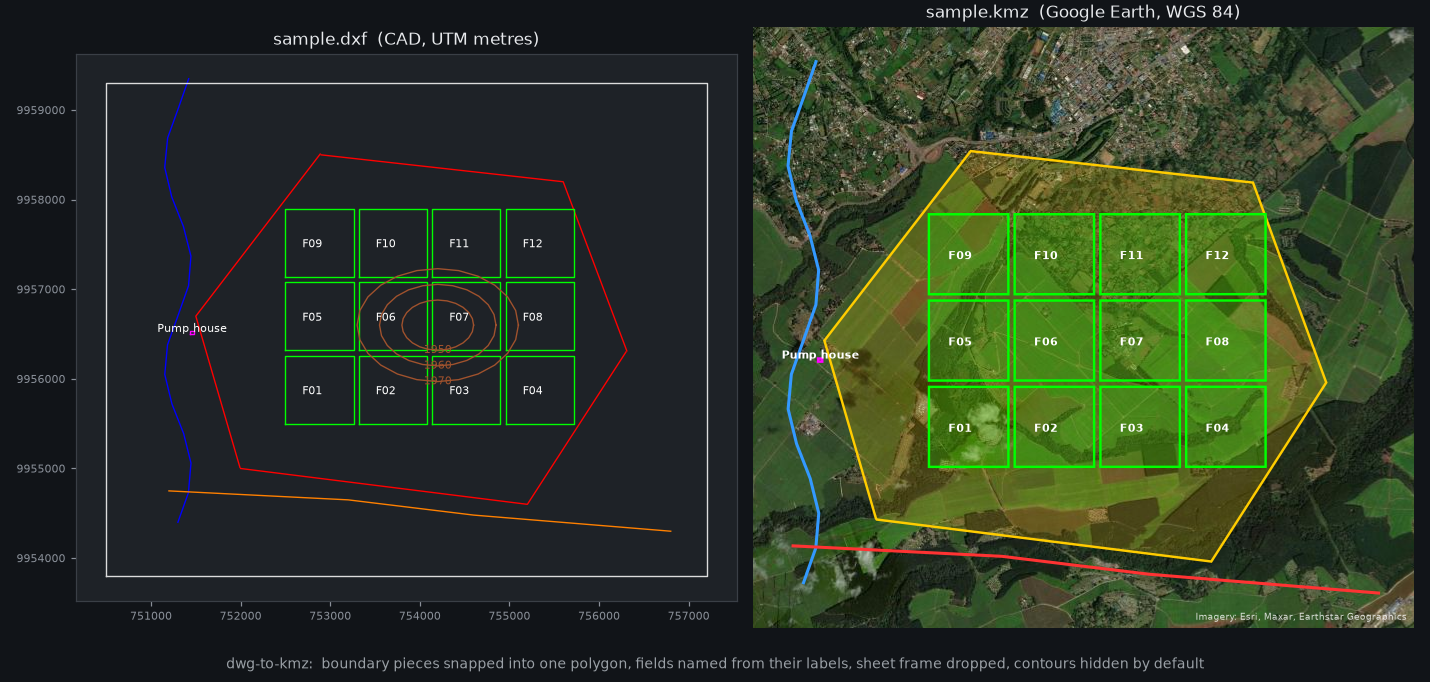
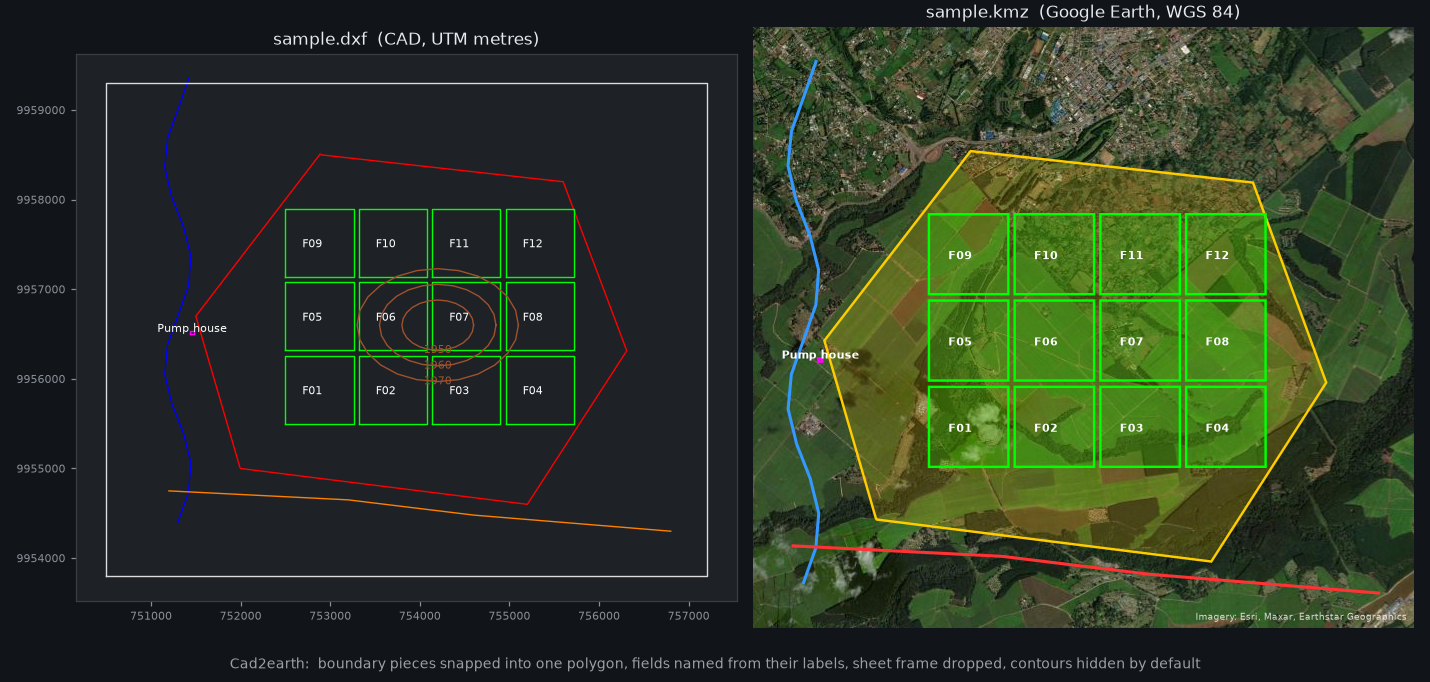
Rename project to Cad2earth
The skill is now called cad2earth (skill names must be lowercase) and
installs to ~/.claude/skills/cad2earth; README, badges, clone commands
and the demo image use the new name.

Changed region(s): [[0.1538, 0.9545, 0.8308, 0.9853]]

diff --git a/examples/render_demo.py b/examples/render_demo.py
@@ -75,7 +75,7 @@ mosaic = Image.new('RGB', ((tx1 - tx0 + 1) * 256, (ty1 - ty0 + 1) * 256))
 for tx in range(tx0, tx1 + 1):
     for ty in range(ty0, ty1 + 1):
         url = 'https://server.arcgisonline.com/ArcGIS/rest/services/World_Imagery/MapServer/tile/%d/%d/%d' % (z, ty, tx)
-        req = urllib.request.Request(url, headers={'User-Agent': 'dwg-to-kmz demo renderer'})
+        req = urllib.request.Request(url, headers={'User-Agent': 'Cad2earth demo renderer'})
         mosaic.paste(Image.open(io.BytesIO(urllib.request.urlopen(req, timeout=30).read())).convert('RGB'),
                      ((tx - tx0) * 256, (ty - ty0) * 256))
 
@@ -103,7 +103,7 @@ a2.set_xlim(mx0, mx1); a2.set_ylim(my0, my1); a2.set_aspect('equal'); a2.axis('o
 a2.set_title('sample.kmz  (Google Earth, WGS 84)', color='#e8eaed', fontsize=11)
 a2.text(0.99, 0.01, 'Imagery: Esri, Maxar, Earthstar Geographics', transform=a2.transAxes, ha='right', va='bottom',
         color='white', fontsize=6, alpha=0.8)
-fig.text(0.5, 0.02, 'dwg-to-kmz:  boundary pieces snapped into one polygon, fields named from their labels, '
+fig.text(0.5, 0.02, 'Cad2earth:  boundary pieces snapped into one polygon, fields named from their labels, '
          'sheet frame dropped, contours hidden by default', ha='center', color='#9aa0a6', fontsize=9)
 plt.tight_layout(rect=(0, 0.04, 1, 1))
 fig.savefig(out, facecolor=fig.get_facecolor())

diff --git a/README.md b/README.md
@@ -1,6 +1,6 @@
-# dwg-to-kmz
+# Cad2earth
 
-[![test](https://github.com/silaselisha/dwg-to-kmz/actions/workflows/test.yml/badge.svg)](https://github.com/silaselisha/dwg-to-kmz/actions/workflows/test.yml)
+[![test](https://github.com/silaselisha/Cad2earth/actions/workflows/test.yml/badge.svg)](https://github.com/silaselisha/Cad2earth/actions/workflows/test.yml)
 [![License: MIT](https://img.shields.io/badge/License-MIT-yellow.svg)](LICENSE)
 [![Claude Code skill](https://img.shields.io/badge/Claude%20Code-skill-d97757)](https://docs.claude.com/en/docs/claude-code/skills)
 
@@ -37,7 +37,7 @@ DWG ──LibreDWG dwg2dxf──▶ DXF ──GDAL + dxf2kmz.py──▶ KML ─
 ## Try it in one minute
 
 ```bash
-git clone https://github.com/silaselisha/dwg-to-kmz.git && cd dwg-to-kmz
+git clone https://github.com/silaselisha/Cad2earth.git && cd Cad2earth
 bash scripts/qgis-python.sh scripts/dxf2kmz.py examples/sample.dxf sample.kmz --epsg 32736 --join-layers '^FARM BOUNDARY$'
 ```
 
@@ -46,7 +46,7 @@ Open `sample.kmz` in Google Earth: a made-up 1,400 ha estate near Kericho, Kenya
 ## Install as a Claude Code skill
 
 ```bash
-git clone https://github.com/silaselisha/dwg-to-kmz.git ~/.claude/skills/dwg-to-kmz
+git clone https://github.com/silaselisha/Cad2earth.git ~/.claude/skills/cad2earth
 ```
 
 Then, in any Claude Code session, ask, e.g., *"convert Desktop/ESTATE BOUNDARIES.dwg to kmz"*. Claude follows [SKILL.md](SKILL.md):

diff --git a/SKILL.md b/SKILL.md
@@ -1,9 +1,9 @@
 ---
-name: dwg-to-kmz
+name: cad2earth
 description: Convert an AutoCAD drawing (DWG or DXF) into a KMZ that opens in Google Earth. Use when the user wants a .dwg/.dxf as KML or KMZ, wants CAD boundaries, estate/field/farm/zone plans or survey drawings shown in Google Earth or on a map, or says "convert to kmz", "dwg to kml", "dxf to kmz". Covers DWG→DXF with LibreDWG, finding the coordinate system, reprojecting to WGS 84, KML styling and folders, zipping to KMZ, and checking it fits Google Earth's import limits.
 ---
 
-# DWG → DXF → KML → KMZ
+# Cad2earth: DWG → DXF → KML → KMZ
 
 The pipeline, all free and open source:
 
@@ -11,7 +11,7 @@ The pipeline, all free and open source:
 2. **DXF → KML** with GDAL (bundled with QGIS) plus `scripts/dxf2kmz.py`. The script reprojects, builds polygons, styles the result and groups it into folders.
 3. **KML → KMZ**: a KMZ is just a zip whose main file is `doc.kml`. The script writes it directly; pass `--kml` to also keep the plain `.kml`.
 
-Scripts live next to this file in `scripts/`. Below, `$SK` means this skill's folder, for example `~/.claude/skills/dwg-to-kmz`, and `$W` means a scratch working folder.
+Scripts live next to this file in `scripts/`. Below, `$SK` means this skill's folder, for example `~/.claude/skills/cad2earth`, and `$W` means a scratch working folder.
 
 ## 0. Rules
 
